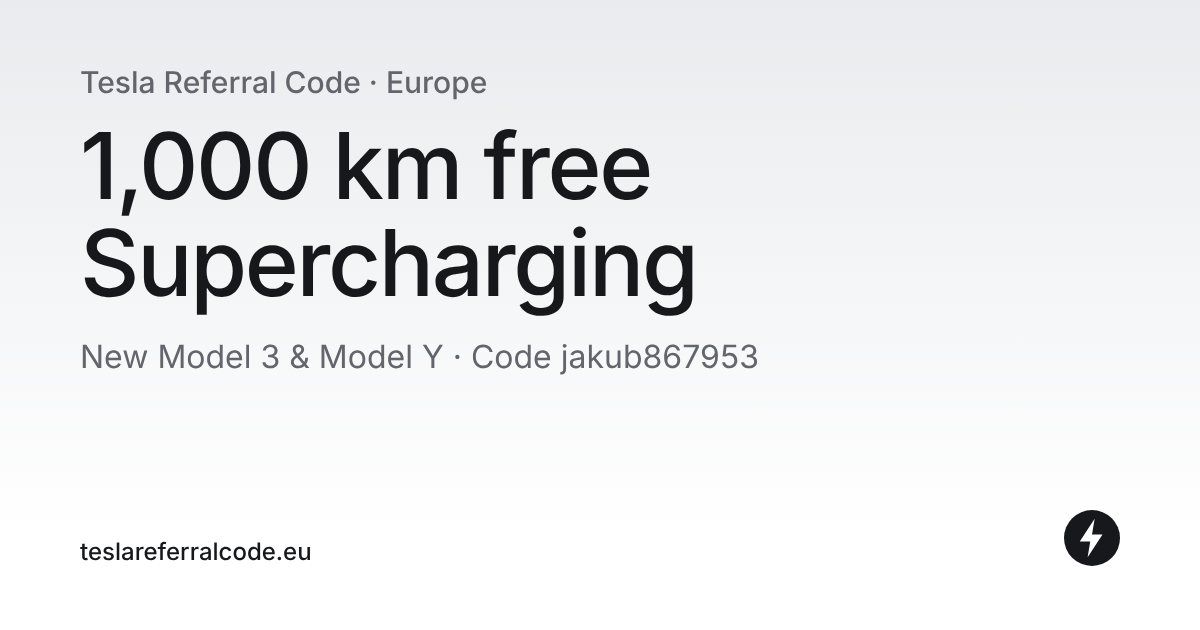
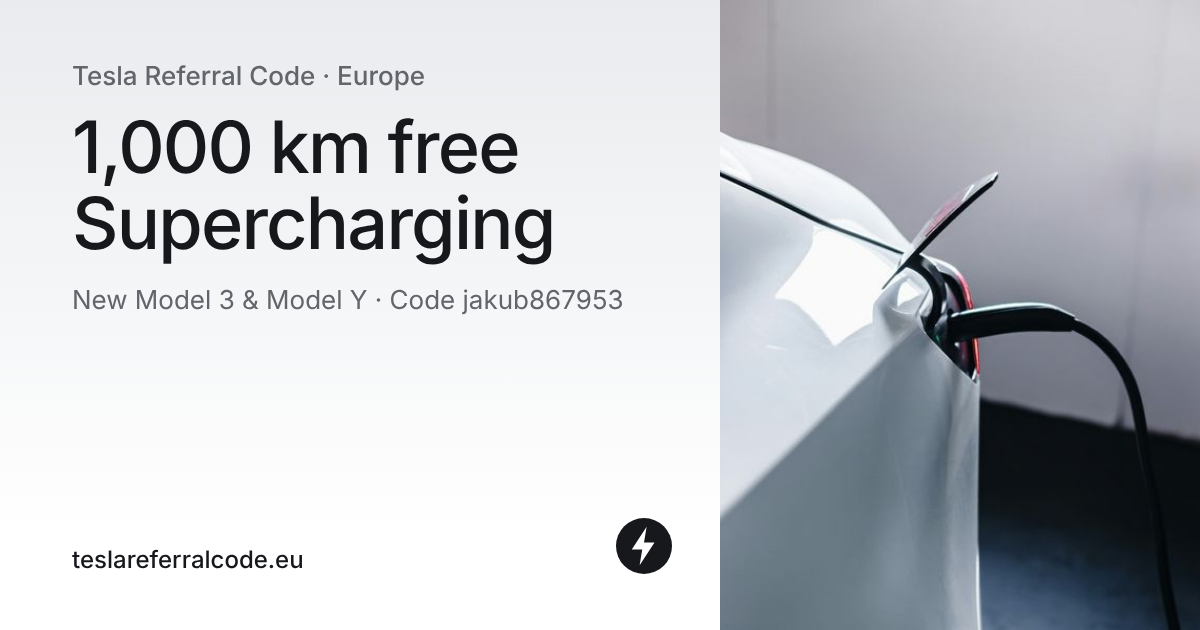
Add hero photo to the page and share images; prepare repo for public use
- Photo below the hero (16:9 desktop, 4:3 mobile, WebP + JPEG, lazy-loaded)
  cropped from assets/hero-source.jpg by scripts/photo-crops.py
- Share images now include the photo
- Optional photo credit via site.json photoCredit
- README rewritten for visitors, MIT license for the code
- Dependabot for GitHub Actions, checkout without persisted credentials
- Ignore .DS_Store and .env files

Claude-Session: https://claude.ai/code/session_01A2AdHAipd4FcixyLGVGrdZ

diff --git a/src/styles.css b/src/styles.css
@@ -196,6 +196,12 @@ h1 {
 
 :focus-visible { outline: 2px solid var(--text); outline-offset: 2px; }
 
+/* Photo */
+.photo { max-width: var(--max); margin: 0 auto; padding: 0 16px; }
+.photo img { display: block; width: 100%; height: auto; border-radius: 12px; background: var(--surface); }
+.photo figcaption { margin-top: 8px; font-size: 12px; color: var(--muted); text-align: right; }
+.photo figcaption a { color: inherit; }
+
 /* Sections */
 .section {
   max-width: var(--max);

diff --git a/scripts/photo-crops.py b/scripts/photo-crops.py
@@ -1,0 +1,45 @@
+"""Crops and compresses assets/hero-source.jpg into src/img/ (published).
+
+Needs Pillow: `python3 scripts/photo-crops.py`. Re-run if the source photo changes.
+"""
+from pathlib import Path
+from PIL import Image
+
+ROOT = Path(__file__).resolve().parent.parent
+SRC = ROOT / "assets/hero-source.jpg"
+OUT = ROOT / "src/img"
+
+# Focus point (fraction of width/height) — the charge port.
+FOCUS = (0.42, 0.40)
+CROPS = {
+    "wide": (16, 9, [800, 1280, 1920]),   # desktop, below the hero
+    "mobile": (4, 3, [480, 800, 1200]),   # phones
+    "og": (5, 6, [500]),                  # share-image panel (500×600)
+}
+
+
+def crop(im, rw, rh):
+    w, h = im.size
+    if w / h > rw / rh:
+        cw, ch = round(h * rw / rh), h
+    else:
+        cw, ch = w, round(w * rh / rw)
+    x = min(max(round(FOCUS[0] * w - cw / 2), 0), w - cw)
+    y = min(max(round(FOCUS[1] * h - ch / 2), 0), h - ch)
+    return im.crop((x, y, x + cw, y + ch))
+
+
+def main():
+    OUT.mkdir(parents=True, exist_ok=True)
+    im = Image.open(SRC).convert("RGB")
+    for name, (rw, rh, widths) in CROPS.items():
+        c = crop(im, rw, rh)
+        for w in widths:
+            r = c.resize((w, round(w * rh / rw)), Image.LANCZOS)
+            r.save(OUT / f"photo-{name}-{w}.webp", "WEBP", quality=78, method=6)
+            r.save(OUT / f"photo-{name}-{w}.jpg", "JPEG", quality=80, optimize=True, progressive=True)
+            print("wrote", f"src/img/photo-{name}-{w}.{{webp,jpg}}")
+
+
+if __name__ == "__main__":
+    main()

diff --git a/README.md b/README.md
@@ -1,45 +1,76 @@
 # Tesla Referral Code
 
-A single static page offering a Tesla referral code to buyers in Europe. See [GLOSSARY.md](GLOSSARY.md) for the terms used, and [docs/research](docs/research/tesla-eu-referral-program.md) for the referral program research.
+Source of **[teslareferralcode.eu](https://teslareferralcode.eu)**, a small independent page where I share my Tesla referral code with people ordering a new Model 3 or Model Y in Europe. Available in English, German and Spanish.
 
-## Editing
+It is a plain static site: HTML, CSS and a few lines of JavaScript, with no framework and no dependencies. A tiny build script turns the text files into pages, and GitHub Pages hosts them.
 
-Everyday changes only touch **`site.json`**:
+> Not affiliated with Tesla, Inc. Tesla, Model 3, Model Y and Supercharger are trademarks of Tesla, Inc.
 
-| Field | Meaning |
-| --- | --- |
-| `referralCode`, `referralUrl` | Your code and `ts.la` link |
-| `offerStatus` | `active`, `ended` (Tesla paused buyer benefits) or `capReached` (you hit the 10 referrals/year cap) |
-| `offerCheckedOn` | Date you last checked the offer (`YYYY-MM-DD`), shown in the footer |
-| `superchargingKm` | Free Supercharging distance for the buyer |
-| `termsUrl` | Fallback link to Tesla's referral terms (each language can set its own) |
-| `goatcounterCode` | Your GoatCounter site code (e.g. `mysite` for `mysite.goatcounter.com`); empty disables analytics |
-| `siteUrl` | Public URL, used for the canonical link (optional) |
+## Project layout
 
-All page text lives in **`content/<lang>.json`** (`en` at `/`, `de` at `/de/`, `es` at `/es/`). To add a language, copy `content/en.json` to e.g. `content/sk.json`, set `lang`, `locale`, `langName` and `termsUrl`, translate, and run the share-image script below. The language switcher, hreflang tags and sitemap pick it up automatically.
-
-When you re-check the offer, update `offerCheckedOn`: it drives the "Updated" line, the month in the page title and the sitemap `lastmod`.
-
-### Share images
-
-`src/og/og-<lang>.png` (1200×630) are generated from the `og` texts and committed. Re-run after changing the km amount, the code or those texts:
-
-```bash
-node scripts/og-images.cjs
+```
+site.json            Referral code, offer status, km amount, analytics, domain
+content/<lang>.json  All page text, one file per language (en, de, es)
+src/                 CSS, JS, fonts, favicon and generated images
+build.mjs            Builds everything into dist/
+scripts/             Image helpers (photo crops, social share images)
+assets/              Source photo (not published)
+docs/research/       Notes on the Tesla referral program and its terms
+GLOSSARY.md          Terms used in this project
 ```
 
-(needs Playwright with Chromium installed).
+## Run it locally
 
-## Build
+Requires Node.js 18 or newer.
 
 ```bash
 node build.mjs
 ```
 
-Output goes to `dist/` (no dependencies): one page per language, `404.html`, `robots.txt` and `sitemap.xml`. Pushing to `main` deploys to GitHub Pages via `.github/workflows/static.yml` (Settings → Pages → Source: GitHub Actions) and is served at https://teslareferralcode.eu.
+```bash
+python3 -m http.server -d dist 8000
+```
 
-## Rules we follow
+Then open http://localhost:8000.
 
-Tesla allows sharing codes on owner/fan sites but forbids paid ads, posting codes on deal/aggregator sites, spam and offering extra incentives. The site uses no Tesla logos or imagery and states it is not affiliated with Tesla.
+## Updating the offer
 
-Inter font © The Inter Project Authors, SIL Open Font License 1.1 (`src/fonts/LICENSE-Inter.txt`).
+Everyday changes only touch `site.json`:
+
+| Field | Meaning |
+| --- | --- |
+| `referralCode`, `referralUrl` | The code and its `ts.la` link |
+| `offerStatus` | `active`, `ended` (Tesla paused buyer benefits) or `capReached` (yearly referral limit reached) |
+| `offerCheckedOn` | Date the offer was last checked (`YYYY-MM-DD`). Drives the "Updated" line, the month in the page title and the sitemap |
+| `superchargingKm` | Free Supercharging distance for the buyer |
+| `termsUrl` | Fallback link to Tesla's referral terms (each language sets its own) |
+| `goatcounterCode` | [GoatCounter](https://www.goatcounter.com) site code. Leave empty to disable analytics |
+| `siteUrl` | Public URL, used for canonical links, hreflang and the sitemap |
+| `photoCredit` | Photographer name and link shown under the photo (empty name = no credit line) |
+
+Pushing to `main` deploys automatically via `.github/workflows/static.yml`.
+
+## Adding a language
+
+Copy `content/en.json` to e.g. `content/fr.json`. Set `lang`, `locale`, `langName` and `termsUrl`, translate the text, then regenerate the share images (see below). The language switcher, hreflang tags and sitemap pick it up automatically.
+
+## Images
+
+Both scripts write their output to `src/`, and the results are committed:
+
+- `python3 scripts/photo-crops.py` crops and compresses `assets/hero-source.jpg` into `src/img/`. Needs [Pillow](https://pypi.org/project/pillow/).
+- `node scripts/og-images.cjs` renders the 1200×630 share image for each language into `src/og/`. Needs [Playwright](https://playwright.dev) with Chromium. Re-run it after changing the km amount, the code or the `og` texts.
+
+## Want a page like this for your own code?
+
+Fork the repo, put your code in `site.json`, adjust the texts, and enable GitHub Pages (**Settings → Pages → Source: GitHub Actions**). Please follow [Tesla's referral rules](https://www.tesla.com/support/referral-program). Sharing on your own site or social media is fine. Paid ads, spam, posting codes on deal or aggregator sites, and offering extra incentives for using your code are not allowed.
+
+## License
+
+The code is under the [MIT License](LICENSE). This does **not** cover:
+
+- **The photo**, which is from [Unsplash](https://unsplash.com/photos/KSAG1EYQ2UY) under the [Unsplash License](https://unsplash.com/license).
+- **The Inter font**, which is under the [SIL Open Font License](src/fonts/LICENSE-Inter.txt).
+- **Tesla's trademarks.**
+
+Issues and pull requests that fix bugs or translations are welcome.
